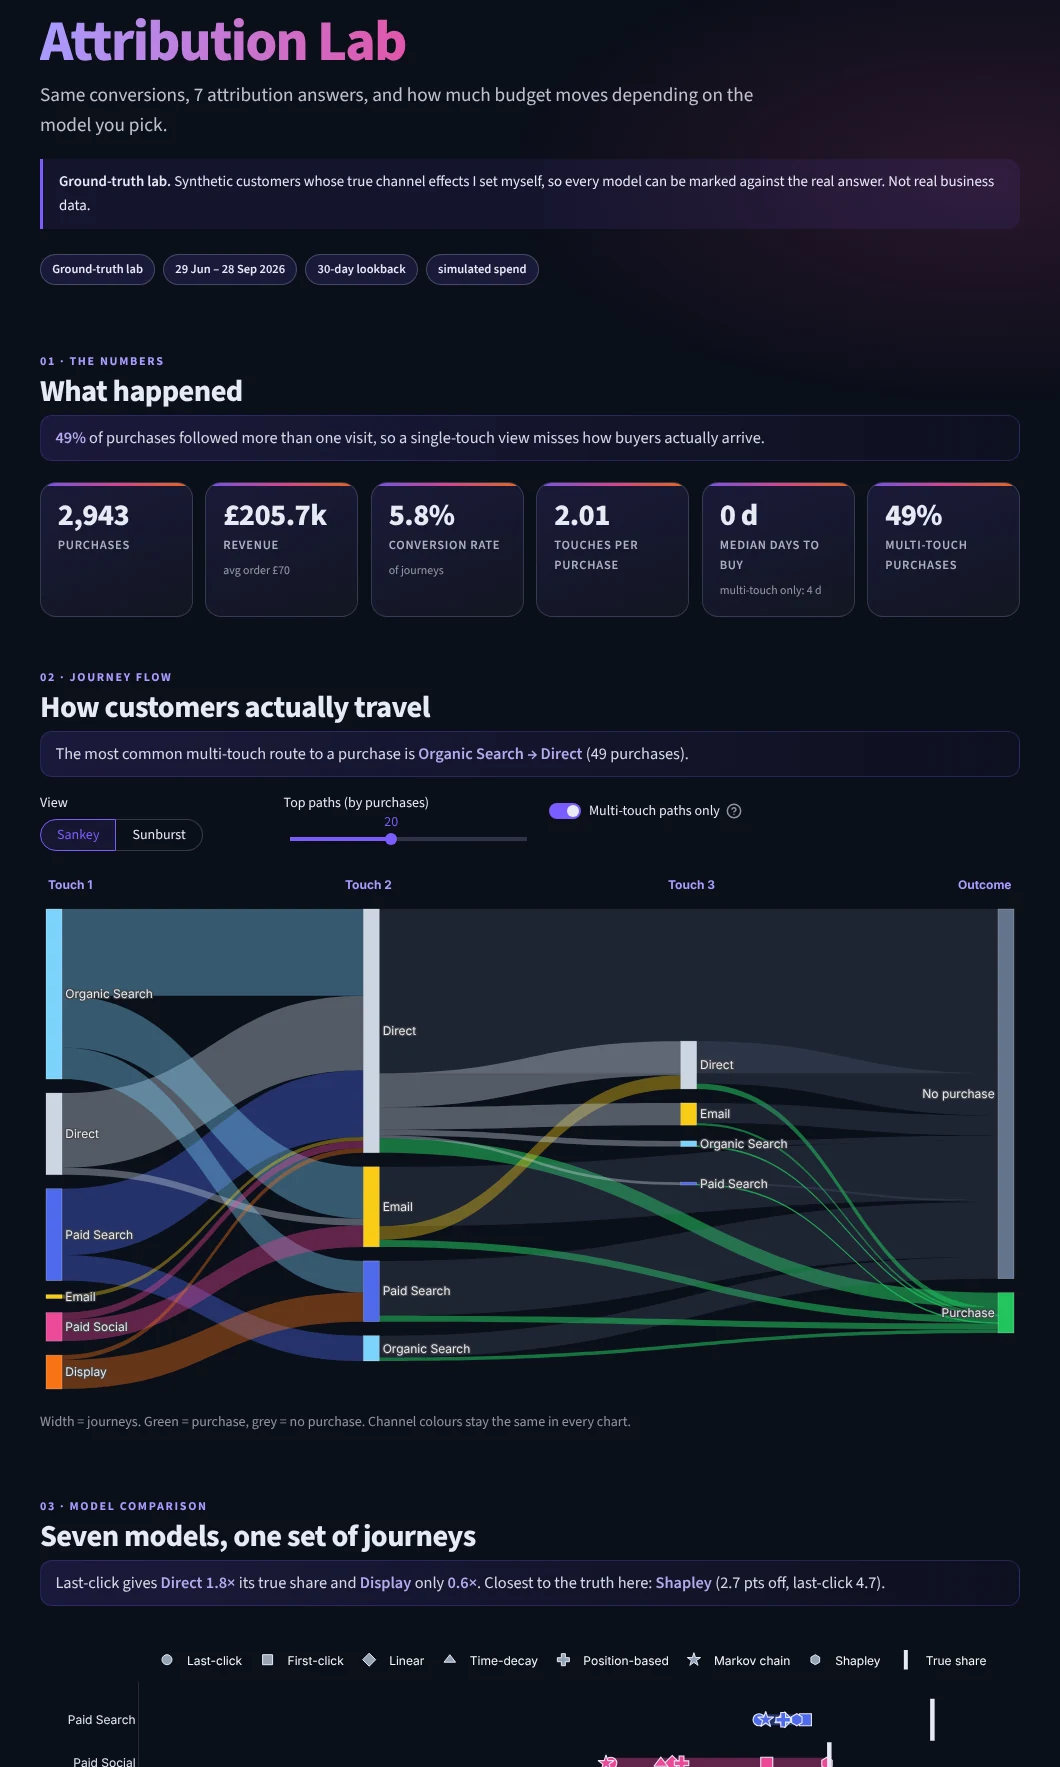
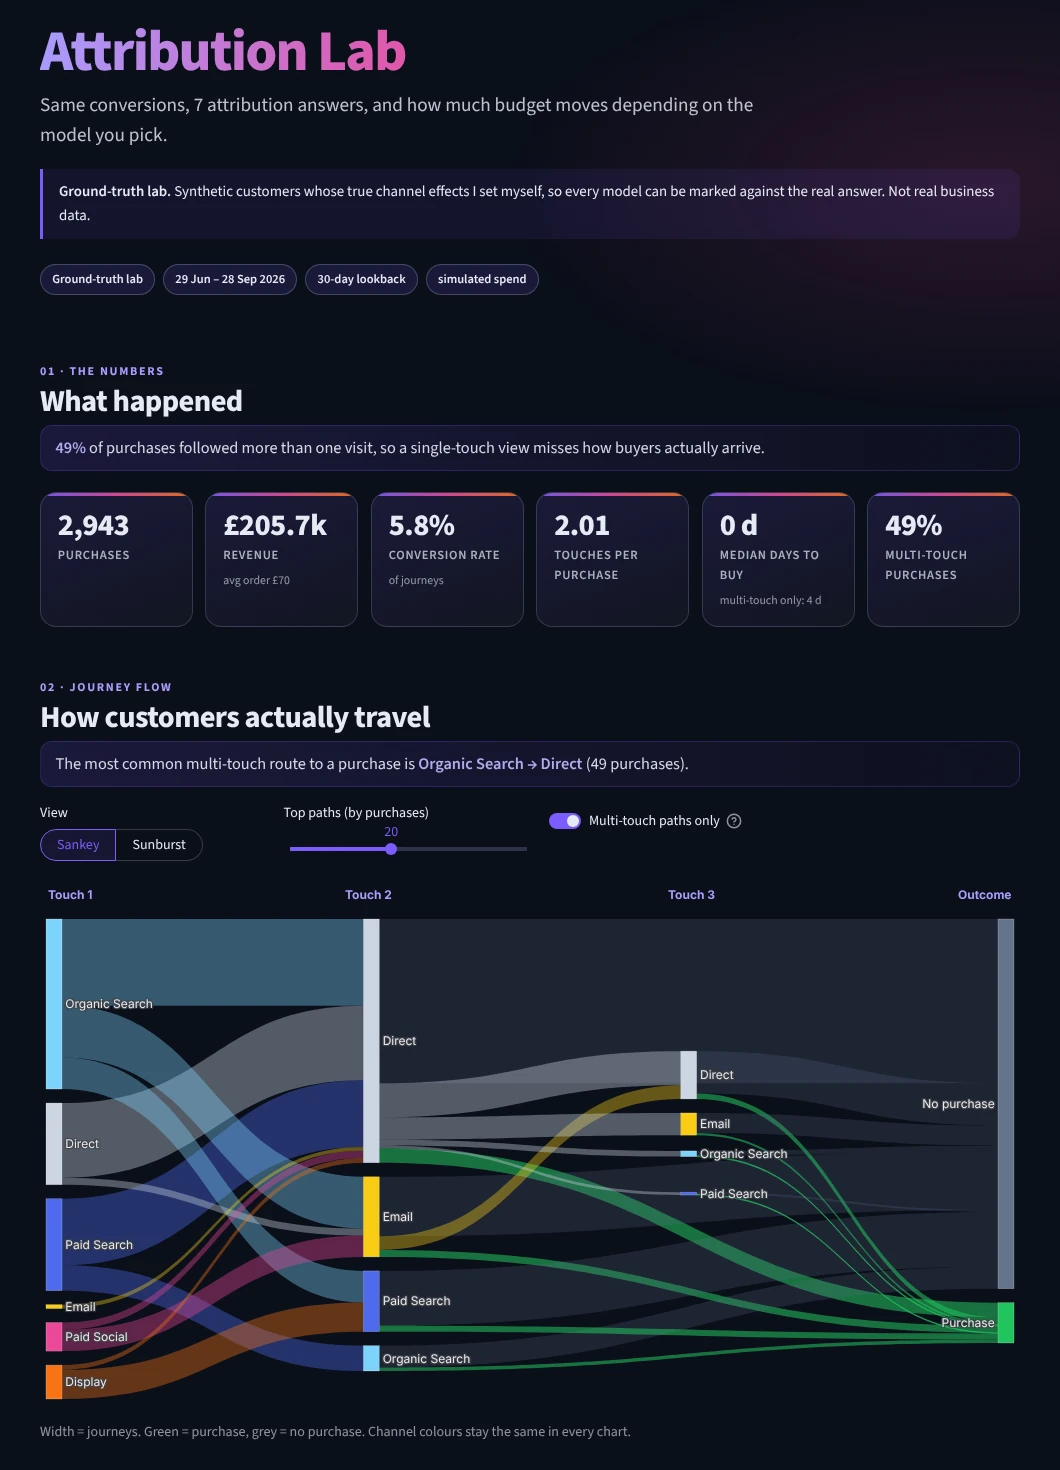
Attribution Lab panel: show the whole main picture, ending below the journey-flow chart
Claude-Session: https://claude.ai/code/session_01XR1QQMAZ5FwBRWRVU4ctKG

diff --git a/index.html b/index.html
@@ -402,6 +402,8 @@
          laptop: 3 cards per row, so -5 = first row, 25 = after 3 cards.
          phone:  2 cards per row, so -5 = first row, 35 = after 4 cards.
        flip: true puts the picture on the right on laptops.
+       fit: "contain" shows the whole main picture (spare space filled with bg);
+            leave it out to fill the frame from the top (may trim the bottom).
        Every image, the title and the button open the live app. */
     const FEATURES = [
       {
@@ -411,6 +413,7 @@
         order: { laptop: -5, phone: -5 },
         flip: true,
         bg: "#0b0f1a",
+        fit: "contain",
         main: { src: "assets/previews/attr-main.webp", alt: "Attribution Lab: headline numbers and customer journey flow" },
         text: [
           "Same conversions, 7 attribution answers, and how much budget moves depending on the model you pick.",
@@ -486,7 +489,9 @@
         const mainLink = ext(el("a", "feature-main"), F.url);
         mainLink.setAttribute("aria-label", "Open " + F.title);
         if (F.bg) mainLink.style.background = F.bg;
-        mainLink.appendChild(mediaEl(F.main.src, F.main.alt));
+        const mainImg = mediaEl(F.main.src, F.main.alt);
+        if (F.fit === "contain") { mainImg.style.objectFit = "contain"; mainImg.style.objectPosition = "center"; }
+        mainLink.appendChild(mainImg);
         top.appendChild(mainLink);
 
         const body = el("div", "feature-body");
